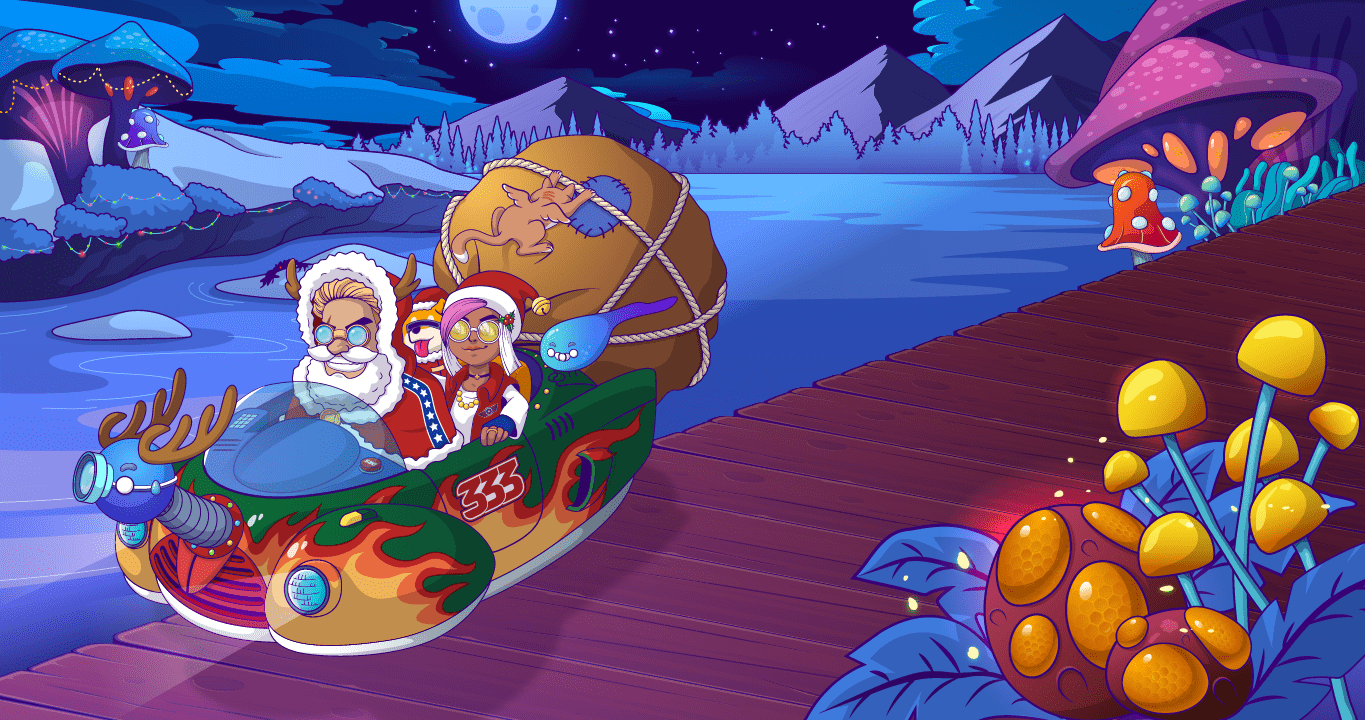
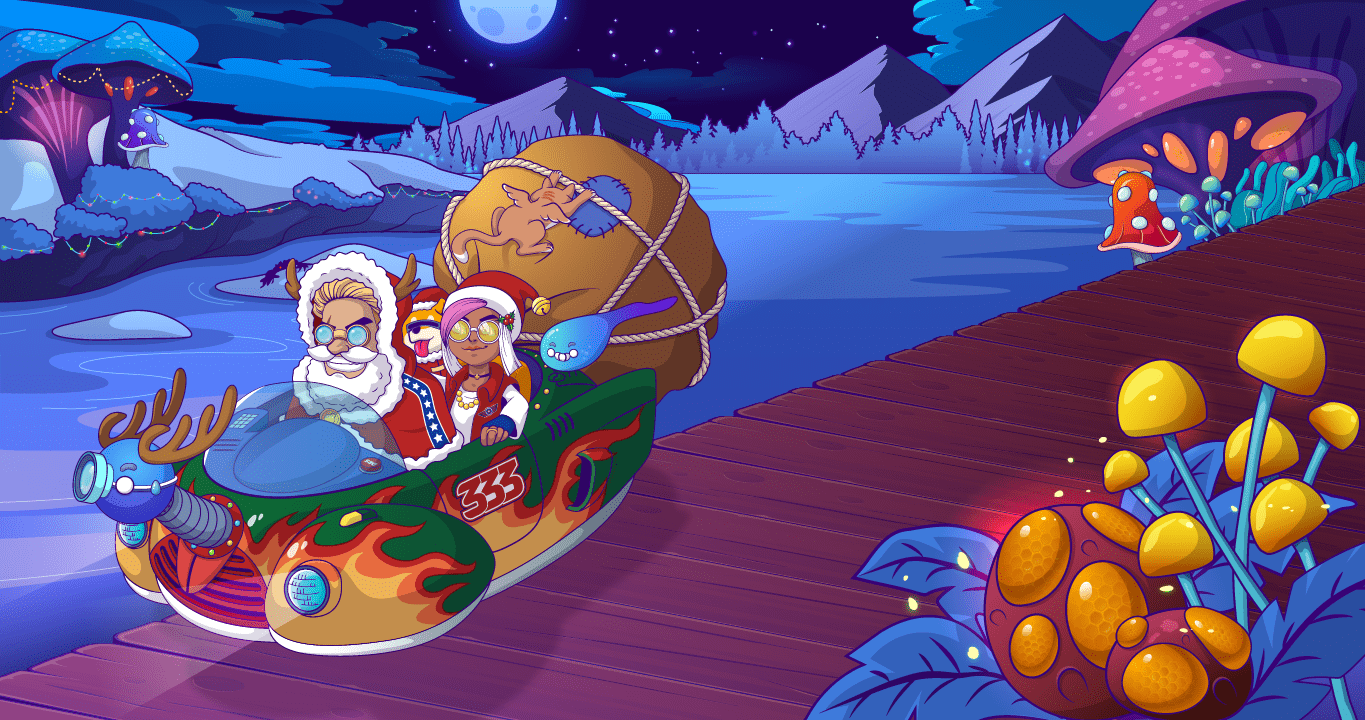
Change the image resolution

diff --git a/src/pages/main/index.tsx b/src/pages/main/index.tsx
@@ -42,8 +42,8 @@ const Background: FunctionComponent = () => {
 		<svg
 			className="absolute w-full h-full hidden md:block"
 			pointerEvents="none"
-			viewBox="0 0 1920 1013"
-			height="1013"
+			viewBox="0 0 2560 1351"
+			height="1351"
 			preserveAspectRatio="xMidYMid slice">
 			<g>
 				{windowSize.width >= 1050 ? (
@@ -53,8 +53,8 @@ const Background: FunctionComponent = () => {
 							xlinkHref="/public/assets/backgrounds/clausmongton.png"
 							x="0"
 							y="0"
-							width="1920"
-							height="1013"
+							width="2560"
+							height="1351"
 						/>
 					</React.Fragment>
 				) : null}
@@ -126,7 +126,7 @@ const TradePosition = styled.div`
 
 	@media (min-width: 1350px) {
 		--tradeMinLeft: calc(1020 * (100vh / 1080));
-		--tradePositionLeft: calc((100vw - 206px) * 0.75 - 520px);
+		--tradePositionLeft: calc((100vw - 206px) * 0.85 - 520px);
 		left: min(var(--tradeMinLeft), var(--tradePositionLeft));
 		transform: unset;
 	}
